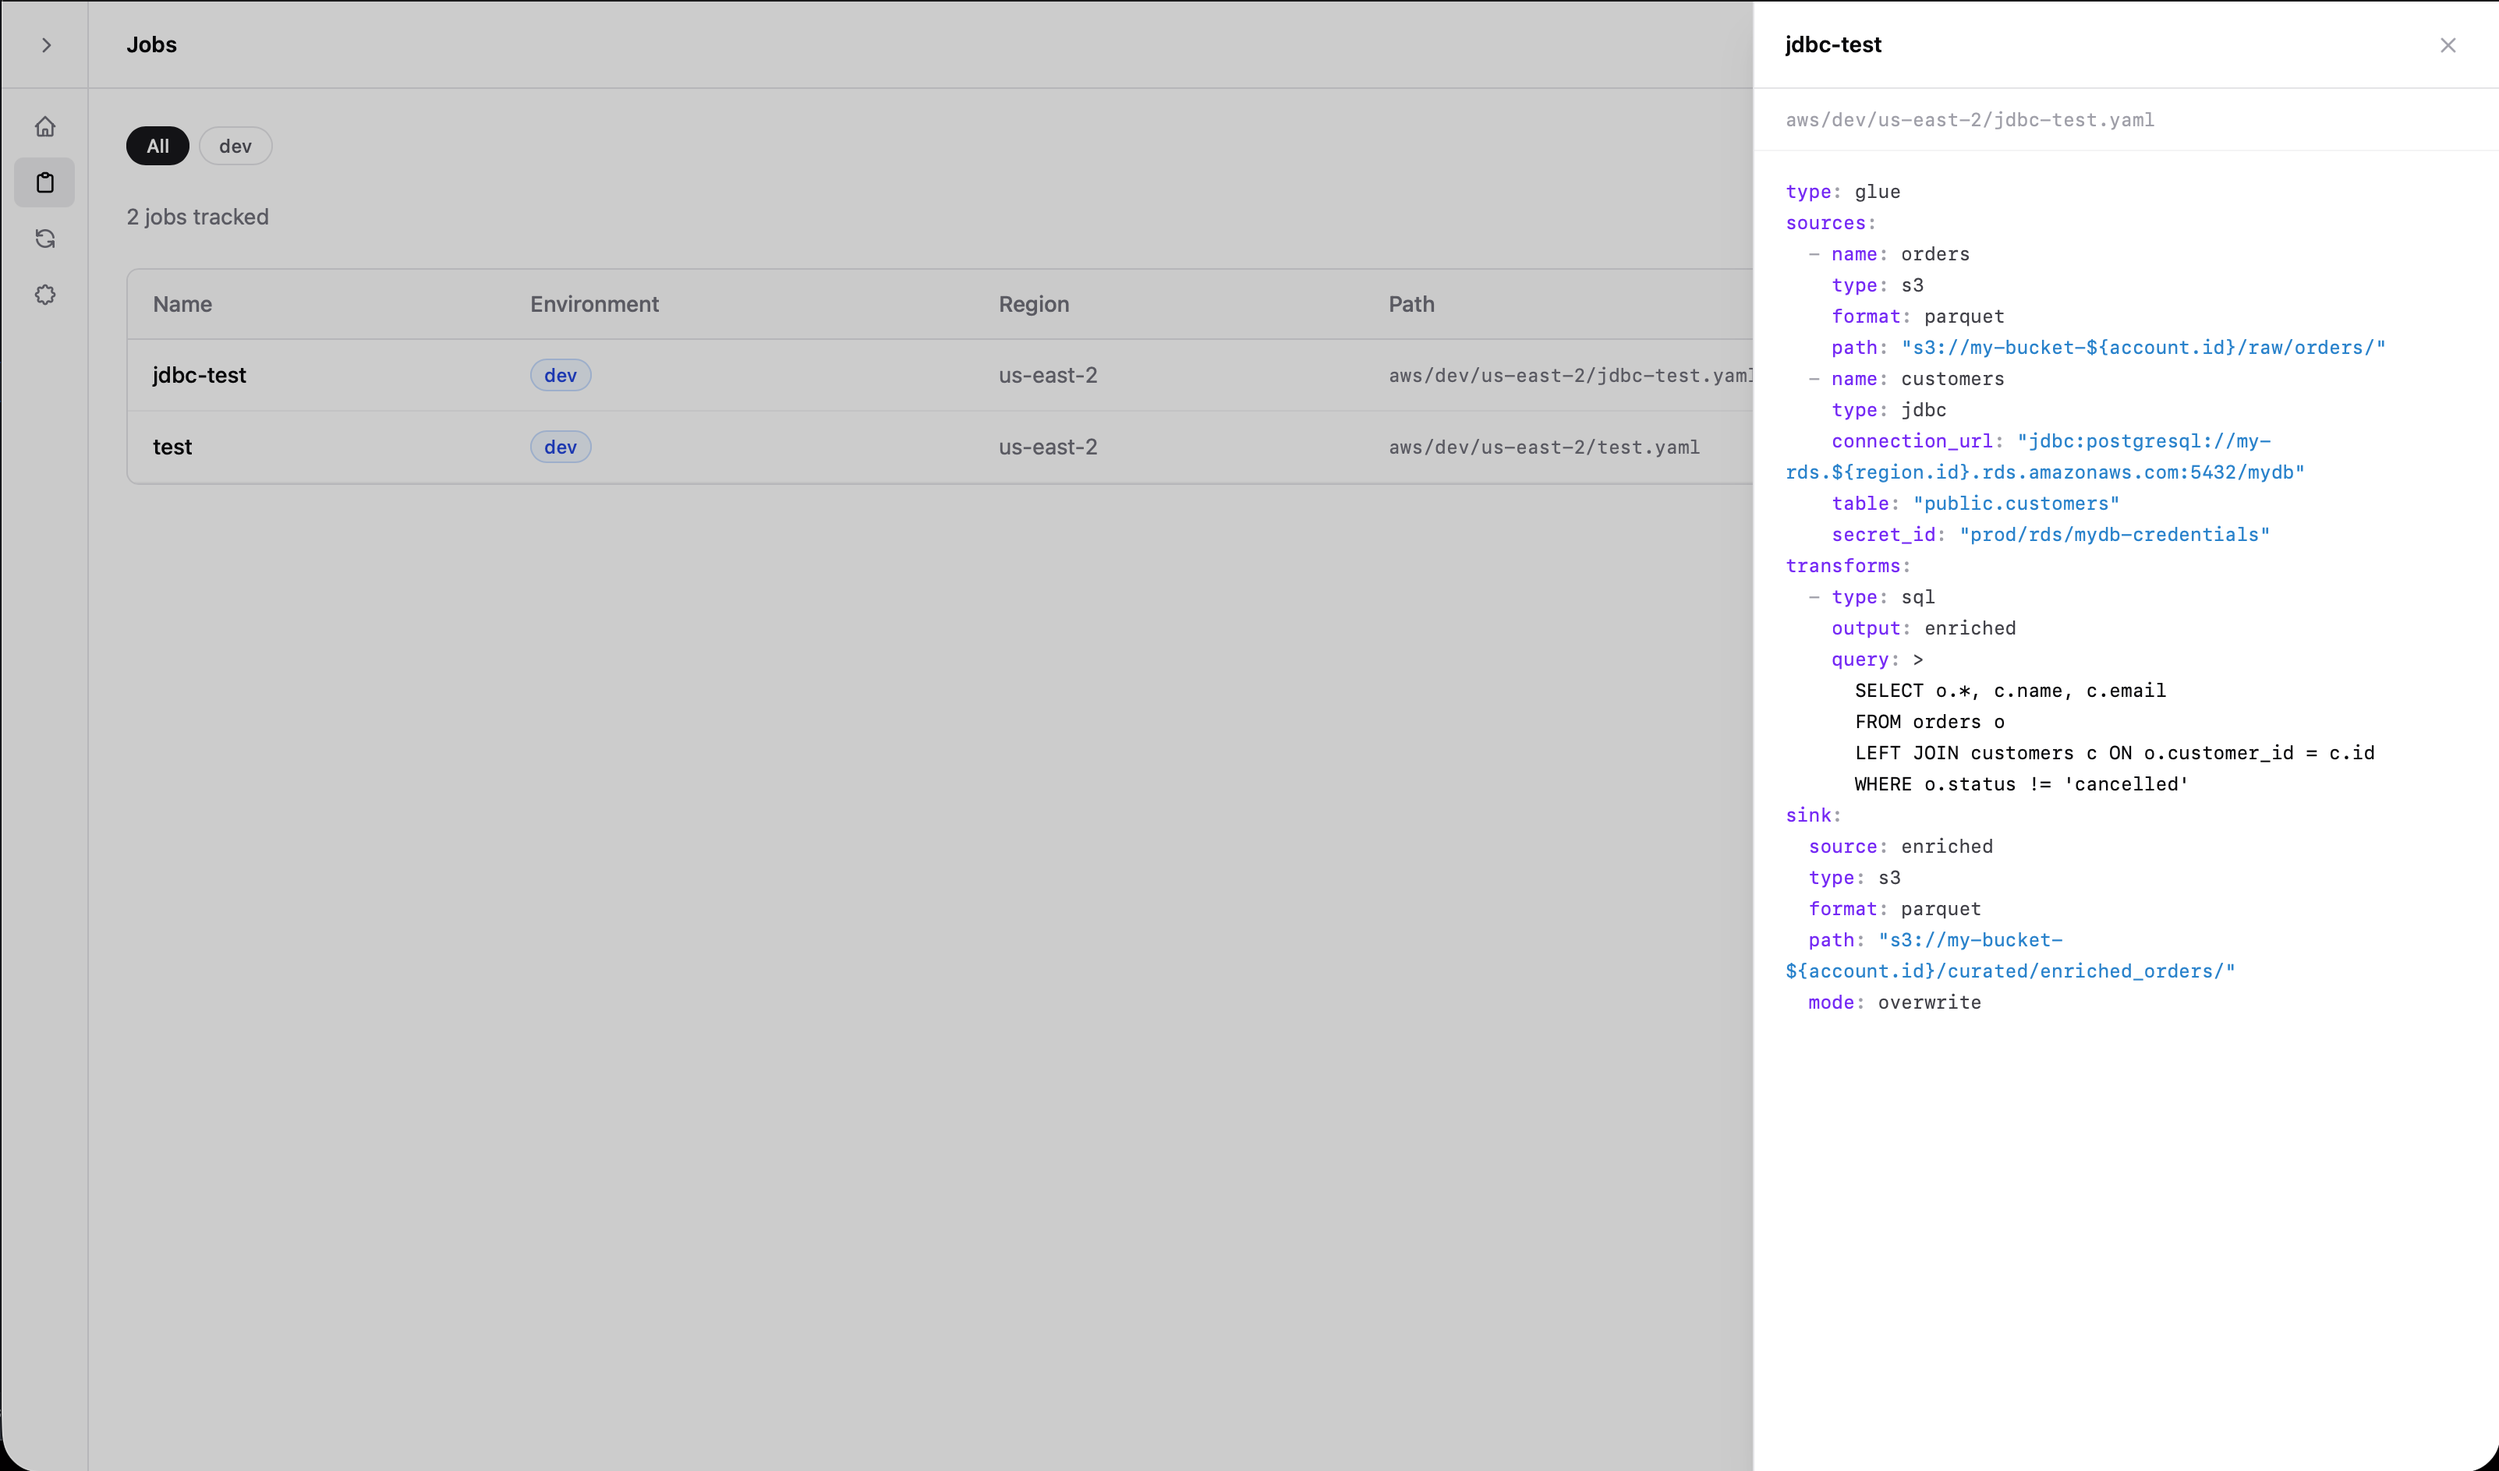
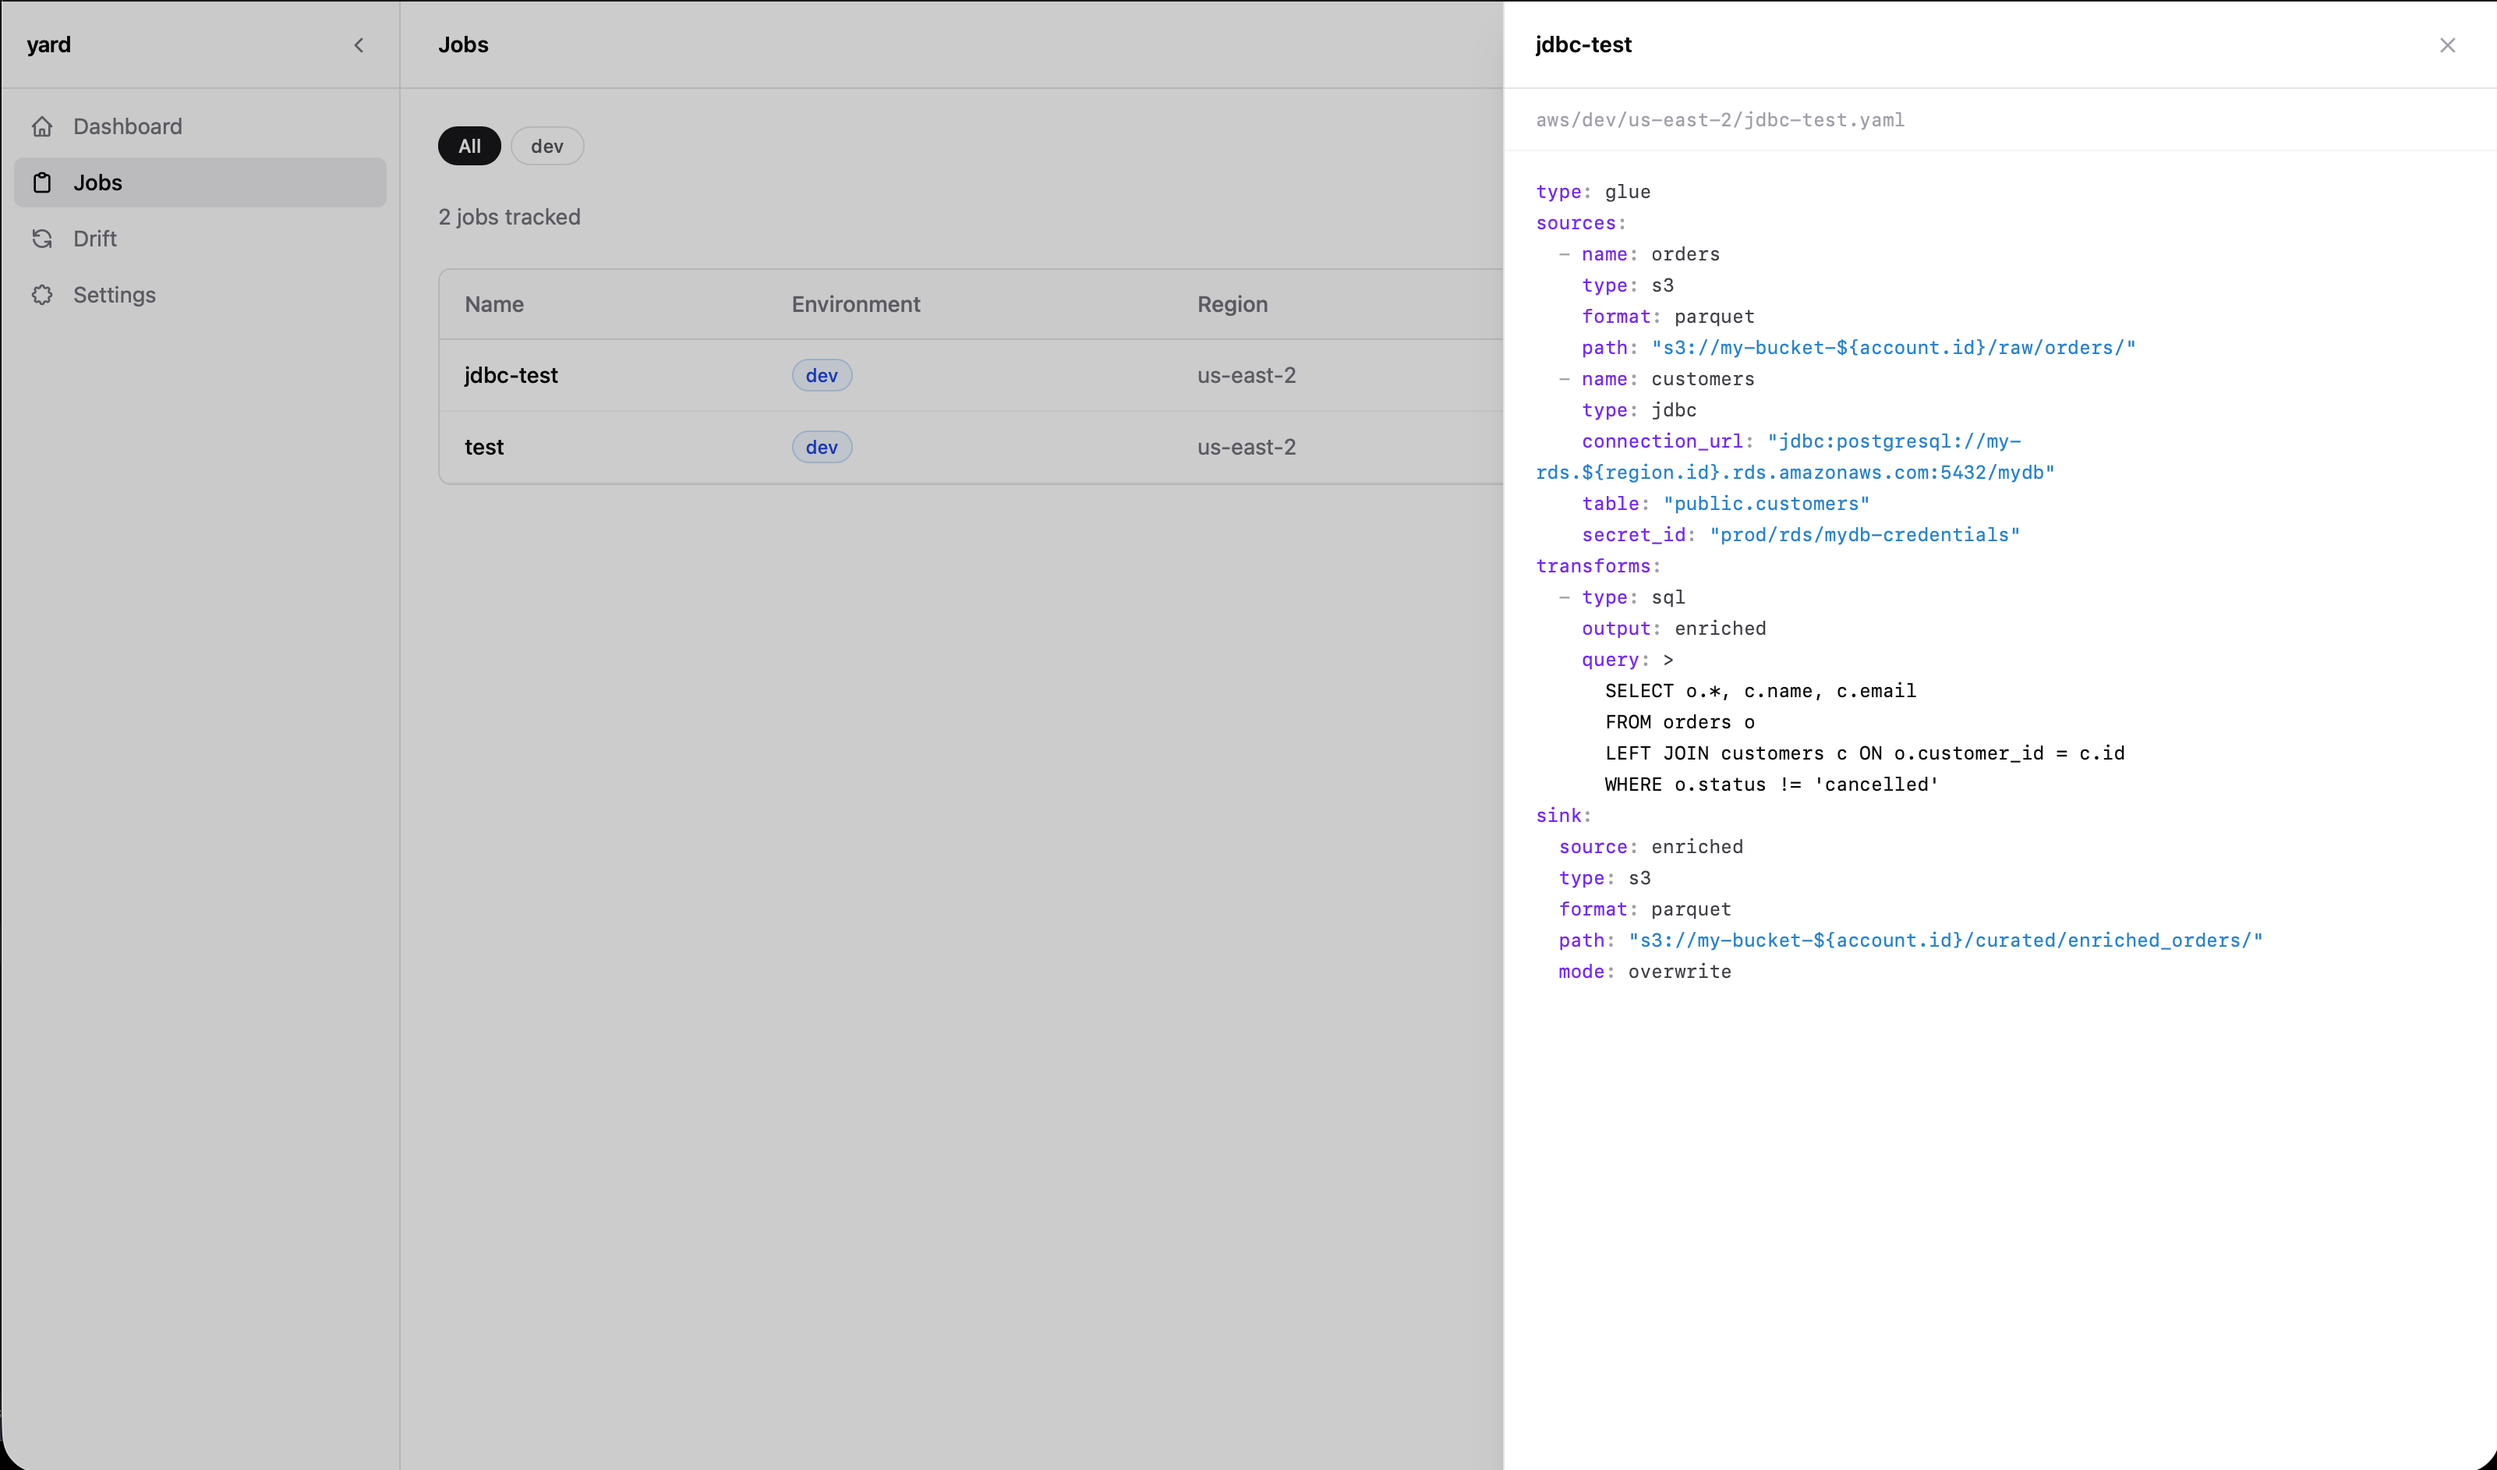
fix: images:  uploaded and realized I fucked up some css.

diff --git a/yard-server/src/ui/jobs.rs b/yard-server/src/ui/jobs.rs
@@ -300,6 +300,7 @@ fn JobSheet(mut job: Signal<Option<JobInfo>>) -> Element {
         Sheet {
             open: is_open,
             title,
+            width: "w-[640px]".to_string(),
             on_close: move |_| job.set(None),
             if !path.is_empty() {
                 div { class: "px-5 py-3 border-b border-zinc-100 dark:border-zinc-800",
@@ -424,4 +425,3 @@ fn html_escape(s: &str) -> String {
         .replace('<', "&lt;")
         .replace('>', "&gt;")
 }
-
